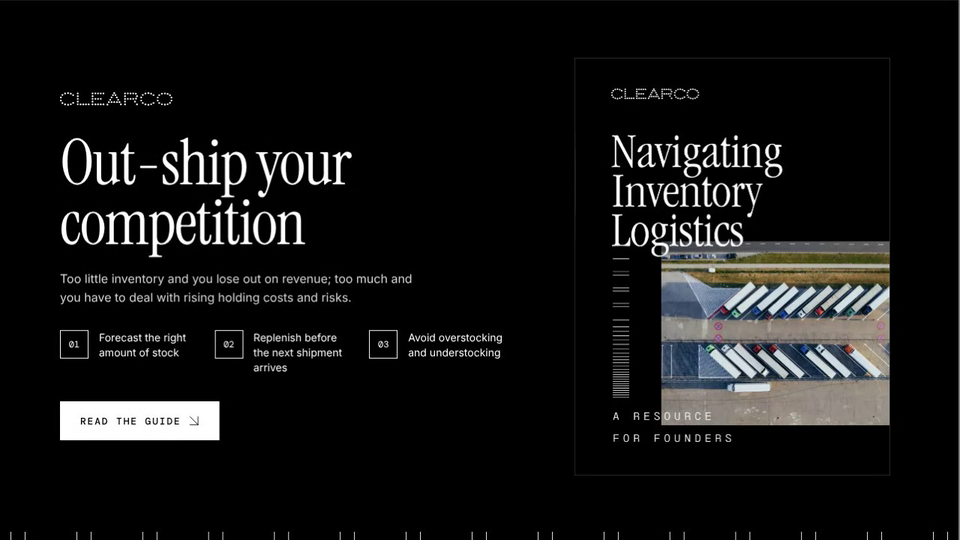
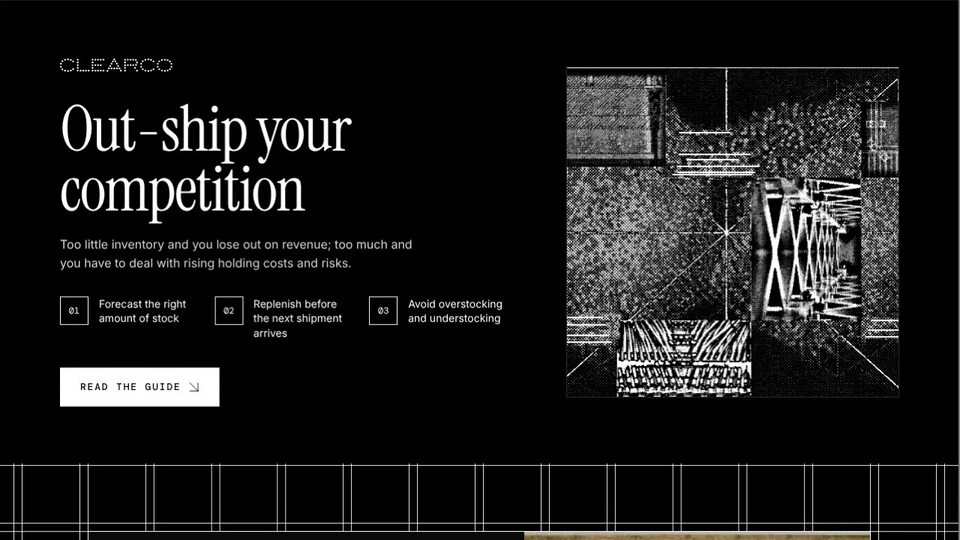
Clearco Logistics Guide: B/W hero visual with animated lines, snapped thin grids, chapter 3 + footer + spacing updates
- Hero: black and white halftone visual replaces the cover, with parallel white lines animating where marked
- Chapter headings without numerals
- Statement grid: thinner bands, lines cross through each other, card snapped to the grid, smaller squares, none in the top row
- Banner: horizontal lines only, thinner
- Chapter 3: tip label and text on the right, identical lines moving three at a time up then down
- What's inside: more top and bottom padding
- Footer: text Clearco, all white text, checkmarks aligned to the first line
- Stat caption breaks after 'entering'; re-record clip, update tile alt

Claude-Session: https://claude.ai/code/session_01AHeBdwjGFXBCupAH8deQwB

diff --git a/clearco-logistics-guide/index.html b/clearco-logistics-guide/index.html
@@ -54,16 +54,25 @@ section{padding-block:clamp(18px,2.5vw,32px)}
 .points{list-style:none;padding:0;display:grid;grid-template-columns:repeat(3,1fr);gap:20px;margin:0 0 36px}
 .points li{display:flex;gap:14px;align-items:flex-start;font-size:14px;line-height:1.4}
 .points i{flex:none;width:38px;height:38px;border:1px solid #fff;display:grid;place-items:center;font:400 12px/1 var(--mono);font-style:normal}
-.hero .cover{width:min(420px,100%);margin:0 auto;box-shadow:0 0 0 1px #2a2a2a}
+.vis{position:relative;width:min(520px,100%);margin:0 auto;box-shadow:0 0 0 1px #2a2a2a}
+.vis img{width:100%;height:auto;display:block}
+/* the parallel lines: each slides or breathes in length, one after another */
+.vl{position:absolute;height:2px;margin-top:-1px;background:#fff;animation:vl 6s ease-in-out infinite alternate}
+.vl.a{transform-origin:50% 50%;animation-name:vla}
+.vl.b{transform-origin:0 50%}
+.vl.c{transform-origin:100% 50%}
+@keyframes vl{from{transform:scaleX(.5)}to{transform:scaleX(1)}}
+@keyframes vla{from{transform:translateX(-9%) scaleX(.78)}to{transform:translateX(9%) scaleX(1)}}
+@media (prefers-reduced-motion:reduce){.vl{animation:none}}
 @media (max-width:900px){.points{grid-template-columns:1fr}}
-@media (max-width:820px){.hero .wrap{grid-template-columns:1fr}.hero .cover{width:min(320px,80%)}}
+@media (max-width:820px){.hero .wrap{grid-template-columns:1fr}.vis{width:min(360px,100%)}}
 
 /* ---------- animated grid backgrounds ---------- */
 .gridsec{position:relative;background:#000;overflow:hidden}
 .gridsec>.wrap{position:relative;z-index:1}
 .gridbg{position:absolute;inset:0;width:100%;height:100%;display:block;z-index:0}
 #stmt{padding-block:clamp(48px,7vw,96px)}
-#stmt .statement{outline:1px solid #fff}
+#stmt .statement{outline:1px solid #fff;outline-offset:-1px}
 
 /* ---------- statement card (the 7shifts quote card) ---------- */
 .statement{display:grid;grid-template-columns:1.15fr 1fr;gap:clamp(24px,4vw,56px);align-items:center;padding:0;overflow:hidden}
@@ -118,21 +127,22 @@ section{padding-block:clamp(18px,2.5vw,32px)}
 
 /* tips */
 .tip{display:grid;grid-template-columns:1fr 1fr;gap:clamp(24px,5vw,72px)}
-.tip .lab{position:relative;padding-top:34px}
-.tip .lab .mono{color:var(--mute)}
-.tip .body{padding:26px 0 30px;border-bottom:1px solid var(--line)}
+.tip .lab{position:relative}
+.tip .body .tl{display:block;color:var(--mute);margin-bottom:14px}
+.tip .body{padding:30px 0 30px;border-bottom:1px solid var(--line)}
 .tip:first-child .body{border-top:1px solid #000}
 .tip .body h3{font:400 clamp(22px,2.4vw,30px)/1.1 var(--serif);margin-bottom:12px}
 .tip .body p{max-width:var(--measure);margin-bottom:1em;color:#2a2a28}
 .tip .body p:last-child{margin-bottom:0}
-/* a very quiet stack of lines in the empty left column: each line only breathes in length a little */
-.lines{position:absolute;left:0;top:76px;bottom:30px;width:200px}
-.lines i{position:absolute;left:0;height:1px;background:#000;opacity:.5;transform-origin:left;animation:ln 9s ease-in-out infinite alternate}
-@keyframes ln{from{transform:scaleX(.82);opacity:.32}to{transform:scaleX(1);opacity:.55}}
+/* the left column: a stack of identical lines; three at a time rise and settle back, one group after another */
+.lines{position:absolute;left:0;top:34px;bottom:34px;width:200px}
+.lines i{position:absolute;left:0;width:200px;height:1px;background:#000;opacity:.5;animation:updown 8s ease-in-out infinite;animation-delay:calc(var(--g) * .9s)}
+@keyframes updown{0%,46%,100%{transform:translateY(0)}20%{transform:translateY(-12px)}}
 @media (prefers-reduced-motion:reduce){.lines i{animation:none}}
-@media (max-width:820px){.tip{grid-template-columns:1fr;gap:0}.tip .lab{padding-top:22px}.lines{display:none}.tip:first-child .body{border-top:0}.tips{border-top:1px solid #000}}
+@media (max-width:820px){.tip{grid-template-columns:1fr;gap:0}.lines{display:none}.tip:first-child .body{border-top:0}.tips{border-top:1px solid #000}}
 
 /* what's inside */
+#inside{padding-block:clamp(64px,9vw,128px)}
 .insidegrid{display:grid;grid-template-columns:repeat(5,1fr);gap:12px;align-items:stretch}
 .ih{grid-column:1/3;padding-right:clamp(12px,3vw,40px)}
 .ih h2{font:400 clamp(34px,4.2vw,56px)/1 var(--serif);letter-spacing:-.015em;margin-top:14px}
@@ -149,18 +159,17 @@ section{padding-block:clamp(18px,2.5vw,32px)}
 /* every 40 seconds: a quiet field of bars */
 .stat{background:#000;color:#fff;overflow:hidden;padding:clamp(48px,7vw,96px) 0;text-align:center;border-top:1px solid #1c1c1c}
 .stat canvas{display:block;width:100%;height:clamp(180px,22vw,280px)}
+@media (max-width:640px){.stat .cap .brk{display:none}}
 .stat .cap{font:400 clamp(28px,3.8vw,50px)/1.08 var(--serif);letter-spacing:-.01em;max-width:18em;margin:clamp(28px,4vw,48px) auto 32px}
 
 /* footer */
 footer{background:#000;color:#fff;padding:clamp(40px,6vw,80px) 0 40px;border-top:1px solid #1c1c1c}
 footer .panel{display:grid;grid-template-columns:1.25fr .75fr;gap:clamp(28px,5vw,72px);align-items:center;border:1px solid #3a3a38;background:#050505;padding:clamp(28px,5vw,64px)}
 footer h2{font:400 clamp(34px,4.6vw,62px)/1.04 var(--serif);letter-spacing:-.015em;margin-bottom:clamp(28px,4vw,44px)}
-footer h2 span{color:#9d9c97}
-footer h2 .logo{display:inline-block;width:3.3em;height:auto;vertical-align:-.02em;margin:0 0 0 .1em}
 footer .checks{list-style:none;padding:0;display:grid;gap:22px}
-footer .checks li{display:flex;gap:14px;align-items:center;font-size:18px;line-height:1.3}
-footer .checks svg{flex:none}
-footer .sign{margin-top:28px;color:#9d9c97;font-size:14px}
+footer .checks li{display:flex;gap:14px;align-items:flex-start;font-size:18px;line-height:1.3}
+footer .checks svg{flex:none;margin-top:3px}
+footer .sign{margin-top:28px;color:#fff;font-size:14px}
 @media (max-width:820px){footer .panel{grid-template-columns:1fr}}
 @media (prefers-reduced-motion:reduce){html{scroll-behavior:auto}.bar .fill{transition:none}}
 </style>
@@ -181,7 +190,7 @@ footer .sign{margin-top:28px;color:#9d9c97;font-size:14px}
     </ul>
     <a class="btn light" href="https://www.clear.co/blog/navigating-inventory-logistics-a-resource-for-founders">Read the guide <svg class="arr" viewBox="0 0 24 24" width="14" height="14" fill="none" stroke="currentColor" stroke-width="1.5" stroke-linecap="square" aria-hidden="true"><path d="M3 3 21 21M21 3v18M3 21h18"/></svg></a>
     </div>
-    <img class="cover" src="cover.webp" width="816" height="1080" alt="The guide cover: Navigating Inventory Logistics, a resource for founders, white serif type over an aerial photo of trucks in a depot, on black">
+    <div class="vis"><img src="hero-visual.png" width="1036" height="1028" alt="Black and white halftone collage of warehouse and cable photography crossed by thin radiating lines, with parallel white lines that slide in and out"><i class="vl a" style="left:33.01%;width:18.15%;top:19.65%;animation-duration:5.6s;animation-delay:-0.0s"></i><i class="vl a" style="left:32.24%;width:24.13%;top:26.26%;animation-duration:6.4s;animation-delay:-0.9s"></i><i class="vl a" style="left:34.94%;width:17.18%;top:28.02%;animation-duration:7.2s;animation-delay:-1.8s"></i><i class="vl a" style="left:31.08%;width:25.10%;top:29.96%;animation-duration:5.9s;animation-delay:-2.7s"></i><i class="vl a" style="left:31.27%;width:23.75%;top:31.71%;animation-duration:6.8s;animation-delay:-3.6s"></i><i class="vl a" style="left:29.54%;width:24.13%;top:32.49%;animation-duration:7.6s;animation-delay:-4.5s"></i><i class="vl b" style="left:0.00%;width:15.83%;top:75.88%;animation-duration:5.6s;animation-delay:-0.0s"></i><i class="vl b" style="left:0.00%;width:15.44%;top:78.21%;animation-duration:6.4s;animation-delay:-0.9s"></i><i class="vl b" style="left:0.00%;width:15.44%;top:81.32%;animation-duration:7.2s;animation-delay:-1.8s"></i><i class="vl b" style="left:0.00%;width:13.71%;top:83.46%;animation-duration:5.9s;animation-delay:-2.7s"></i><i class="vl c" style="left:88.03%;width:11.97%;top:76.85%;animation-duration:5.6s;animation-delay:-0.0s"></i><i class="vl c" style="left:87.84%;width:12.16%;top:79.77%;animation-duration:6.4s;animation-delay:-0.9s"></i><i class="vl c" style="left:87.84%;width:12.16%;top:81.71%;animation-duration:7.2s;animation-delay:-1.8s"></i></div>
   </div>
 </header>
 
@@ -204,7 +213,7 @@ footer .sign{margin-top:28px;color:#9d9c97;font-size:14px}
     <div class="box chap">
       <div class="txt">
         <p class="mono n">Chapter one</p>
-        <h2>1. It all begins with stock forecasting.</h2>
+        <h2>It all begins with stock forecasting.</h2>
         <h3>One word: forecasting</h3>
         <p>It probably goes without saying that regardless of whether you run an eCommerce business or a brick and mortar store, inventory forecasting can make or break your profits. Too little inventory and you lose out on revenue; too much and you have to deal with rising holding costs and risks, unable to use that capital for other crucial areas of your business. So how do you straddle that fine line that optimizes inventory while managing cash flow?</p>
         <p>In the context of inventory management, the goal is to strike that not-too-hot, not-too-cold Goldilocks zone. Stock forecasting is all about holding just the right amount of inventory so that you’re not overstocked nor are you understocked. For most medium-sized businesses, you’ll have to begin by establishing whether your inventory turnover is within industry benchmarks.</p>
@@ -224,7 +233,7 @@ footer .sign{margin-top:28px;color:#9d9c97;font-size:14px}
     <div class="box chap">
       <div class="txt">
         <p class="mono n">Chapter two</p>
-        <h2>2. Replenishment, replenishment, replenishment.</h2>
+        <h2>Replenishment, replenishment, replenishment.</h2>
         <h3>Let’s say…</h3>
         <p>Formulas are good and well — but perhaps the best way to demonstrate them in practice is by using an example. Imagine you own a mid-sized eCommerce business in Canada and you sell watches manufactured in China.</p>
         <p>Let’s start by totalling the lead time: a couple of days to pick and pack the watches, four days to ship the goods to the port, 30 days for the watches to ship to Canada, another week in customs, then five days to travel to your warehouse.</p>
@@ -255,19 +264,21 @@ footer .sign{margin-top:28px;color:#9d9c97;font-size:14px}
   <div class="wrap">
     <div class="box c3">
       <p class="mono n" style="color:var(--mute)">Chapter three</p>
-      <h2>3. How to avoid overstocking and understocking.</h2>
+      <h2>How to avoid overstocking and understocking.</h2>
       <div class="tips">
         <div class="tip">
-          <div class="lab"><span class="mono">Tip 1</span><div class="lines" aria-hidden="true"><i style="top:0.0%;width:200px;animation-duration:9s;animation-delay:-0.0s"></i><i style="top:18.2%;width:168px;animation-duration:11s;animation-delay:-1.7s"></i><i style="top:35.0%;width:200px;animation-duration:8s;animation-delay:-3.4s"></i><i style="top:50.6%;width:120px;animation-duration:12s;animation-delay:-5.1s"></i><i style="top:64.6%;width:184px;animation-duration:10s;animation-delay:-6.8s"></i><i style="top:77.0%;width:150px;animation-duration:9s;animation-delay:-8.5s"></i><i style="top:87.5%;width:200px;animation-duration:11s;animation-delay:-10.2s"></i><i style="top:95.6%;width:136px;animation-duration:8s;animation-delay:-3.9s"></i><i style="top:100.0%;width:176px;animation-duration:12s;animation-delay:-1.6s"></i></div></div>
+          <div class="lab"><div class="lines" aria-hidden="true"><i style="top:0.0%;--g:0"></i><i style="top:18.2%;--g:0"></i><i style="top:35.0%;--g:0"></i><i style="top:50.6%;--g:1"></i><i style="top:64.6%;--g:1"></i><i style="top:77.0%;--g:1"></i><i style="top:87.5%;--g:2"></i><i style="top:95.6%;--g:2"></i><i style="top:100.0%;--g:2"></i></div></div>
           <div class="body">
+            <span class="mono tl">Tip 1</span>
             <h3>Reduce any inventory that’s no longer relevant to the market</h3>
             <p>The best practice when it comes to making sure your stock remains relevant is to use data to predict when an item is about to become obsolete in a market. This can include taking into account when a product is going to be replaced or overtaken by a new or competing version.</p>
             <p>A product’s life cycle needs to be monitored regularly — monthly if possible — to keep track of fluctuations in demand. Once you have a demand pattern mapped out, you’ll be less likely to overstock on an item that’s about to be removed from the shelf.</p>
           </div>
         </div>
         <div class="tip">
-          <div class="lab"><span class="mono">Tip 2</span><div class="lines" aria-hidden="true"><i style="top:0.0%;width:150px;animation-duration:10s;animation-delay:-0.0s"></i><i style="top:18.2%;width:200px;animation-duration:8s;animation-delay:-1.7s"></i><i style="top:35.0%;width:128px;animation-duration:12s;animation-delay:-3.4s"></i><i style="top:50.6%;width:190px;animation-duration:9s;animation-delay:-5.1s"></i><i style="top:64.6%;width:160px;animation-duration:11s;animation-delay:-6.8s"></i><i style="top:77.0%;width:200px;animation-duration:8s;animation-delay:-0.5s"></i><i style="top:87.5%;width:112px;animation-duration:10s;animation-delay:-0.2s"></i><i style="top:95.6%;width:180px;animation-duration:12s;animation-delay:-11.9s"></i><i style="top:100.0%;width:200px;animation-duration:9s;animation-delay:-4.6s"></i></div></div>
+          <div class="lab"><div class="lines" aria-hidden="true"><i style="top:0.0%;--g:0"></i><i style="top:18.2%;--g:0"></i><i style="top:35.0%;--g:0"></i><i style="top:50.6%;--g:1"></i><i style="top:64.6%;--g:1"></i><i style="top:77.0%;--g:1"></i><i style="top:87.5%;--g:2"></i><i style="top:95.6%;--g:2"></i><i style="top:100.0%;--g:2"></i></div></div>
           <div class="body">
+            <span class="mono tl">Tip 2</span>
             <h3>Offload overstocked items</h3>
             <p>One thing you can do if you find yourself with plenty of stock for an item is to reduce the price, thus offloading it. While you’ll experience a reduction in profits in the short term, the long term benefit of unclogging your warehouse facility means an overall reduction in carrying costs, while also freeing up space to store products that are more profitable.</p>
           </div>
@@ -293,7 +304,7 @@ footer .sign{margin-top:28px;color:#9d9c97;font-size:14px}
 <section class="stat" id="stat">
   <canvas class="bars" aria-hidden="true"></canvas>
   <div class="wrap">
-    <p class="cap">Every 40 seconds, products are entering the logistics system.</p>
+    <p class="cap">Every 40 seconds, products are entering<br class="brk"> the logistics system.</p>
     <a class="btn light" href="https://www.clear.co/blog/navigating-inventory-logistics-a-resource-for-founders">Track with Clearco <svg class="arr" viewBox="0 0 24 24" width="14" height="14" fill="none" stroke="currentColor" stroke-width="1.5" stroke-linecap="square" aria-hidden="true"><path d="M3 3 21 21M21 3v18M3 21h18"/></svg></a>
   </div>
 </section>
@@ -303,7 +314,7 @@ footer .sign{margin-top:28px;color:#9d9c97;font-size:14px}
   <div class="wrap">
     <div class="panel">
       <div class="l">
-        <h2><span>It pays to stay<br>in stock with</span> <svg class="logo" xmlns="http://www.w3.org/2000/svg" viewBox="-489.3 -58.1 978.8 116.8" role="img" aria-label="Clearco"><circle cx="-481.7" cy="-13.1" r="7.63"/><circle cx="-481.7" cy="14.1" r="7.63"/><circle cx="-468.7" cy="-34.5" r="7.63"/><circle cx="-468.7" cy="36.5" r="7.63"/><circle cx="-445.2" cy="-47.1" r="7.63"/><circle cx="-445.2" cy="47.6" r="7.63"/><circle cx="-419.1" cy="-50.5" r="7.63"/><circle cx="-419.1" cy="51.0" r="7.63"/><circle cx="-395.3" cy="-45.6" r="7.63"/><circle cx="-395.3" cy="46.7" r="7.63"/><circle cx="-374.7" cy="-32.9" r="7.63"/><circle cx="-374.7" cy="34.3" r="7.63"/><circle cx="-334.8" cy="-47.6" r="7.63"/><circle cx="-334.8" cy="-23.8" r="7.63"/><circle cx="-334.8" cy="-0.4" r="7.63"/><circle cx="-334.8" cy="23.7" r="7.63"/><circle cx="-334.8" cy="46.7" r="7.63"/><circle cx="-310.3" cy="47.6" r="7.63"/><circle cx="-286.6" cy="47.6" r="7.63"/><circle cx="-263.5" cy="47.6" r="7.63"/><circle cx="-239.7" cy="47.6" r="7.63"/><circle cx="-206.0" cy="-47.6" r="7.63"/><circle cx="-206.0" cy="-23.8" r="7.63"/><circle cx="-206.0" cy="-0.4" r="7.63"/><circle cx="-206.0" cy="23.7" r="7.63"/><circle cx="-206.0" cy="47.6" r="7.63"/><circle cx="-181.3" cy="-47.6" r="7.63"/><circle cx="-181.3" cy="-0.4" r="7.63"/><circle cx="-181.3" cy="47.6" r="7.63"/><circle cx="-158.0" cy="-47.6" r="7.63"/><circle cx="-158.0" cy="-0.4" r="7.63"/><circle cx="-158.0" cy="47.6" r="7.63"/><circle cx="-134.5" cy="-47.6" r="7.63"/><circle cx="-134.5" cy="-0.4" r="7.63"/><circle cx="-134.5" cy="47.6" r="7.63"/><circle cx="-111.2" cy="-47.6" r="7.63"/><circle cx="-111.2" cy="47.6" r="7.63"/><circle cx="-76.2" cy="49.9" r="7.63"/><circle cx="-63.7" cy="28.1" r="7.63"/><circle cx="-52.1" cy="7.7" r="7.63"/><circle cx="-40.1" cy="-13.1" r="7.63"/><circle cx="-40.1" cy="28.1" r="7.63"/><circle cx="-28.5" cy="-32.9" r="7.63"/><circle cx="-17.0" cy="-50.5" r="7.63"/><circle cx="-17.0" cy="28.1" r="7.63"/><circle cx="-6.2" cy="-32.9" r="7.63"/><circle cx="5.2" cy="-13.1" r="7.63"/><circle cx="6.8" cy="28.1" r="7.63"/><circle cx="16.9" cy="7.7" r="7.63"/><circle cx="28.7" cy="28.1" r="7.63"/><circle cx="40.6" cy="47.6" r="7.63"/><circle cx="76.9" cy="-47.1" r="7.63"/><circle cx="76.9" cy="-23.8" r="7.63"/><circle cx="76.9" cy="0.4" r="7.63"/><circle cx="76.9" cy="23.7" r="7.63"/><circle cx="76.9" cy="47.6" r="7.63"/><circle cx="101.3" cy="-47.6" r="7.63"/><circle cx="101.3" cy="-0.4" r="7.63"/><circle cx="124.8" cy="-47.6" r="7.63"/><circle cx="124.8" cy="-0.4" r="7.63"/><circle cx="148.2" cy="-47.6" r="7.63"/><circle cx="148.2" cy="-0.4" r="7.63"/><circle cx="163.6" cy="23.7" r="7.63"/><circle cx="171.0" cy="-45.6" r="7.63"/><circle cx="172.6" cy="-2.5" r="7.63"/><circle cx="181.5" cy="-23.8" r="7.63"/><circle cx="181.5" cy="47.6" r="7.63"/><circle cx="218.0" cy="-13.1" r="7.63"/><circle cx="218.0" cy="14.1" r="7.63"/><circle cx="231.4" cy="-34.5" r="7.63"/><circle cx="231.4" cy="35.4" r="7.63"/><circle cx="254.8" cy="-47.1" r="7.63"/><circle cx="254.8" cy="47.6" r="7.63"/><circle cx="280.8" cy="-50.5" r="7.63"/><circle cx="280.8" cy="51.0" r="7.63"/><circle cx="304.4" cy="-45.6" r="7.63"/><circle cx="304.4" cy="46.7" r="7.63"/><circle cx="325.4" cy="-32.9" r="7.63"/><circle cx="325.4" cy="35.4" r="7.63"/><circle cx="362.0" cy="-11.6" r="7.63"/><circle cx="362.0" cy="14.1" r="7.63"/><circle cx="375.2" cy="-32.9" r="7.63"/><circle cx="375.2" cy="35.4" r="7.63"/><circle cx="398.8" cy="-45.6" r="7.63"/><circle cx="398.8" cy="46.7" r="7.63"/><circle cx="424.6" cy="-47.6" r="7.63"/><circle cx="424.6" cy="49.9" r="7.63"/><circle cx="448.3" cy="-44.0" r="7.63"/><circle cx="448.3" cy="46.7" r="7.63"/><circle cx="469.0" cy="-31.9" r="7.63"/><circle cx="469.0" cy="34.3" r="7.63"/><circle cx="481.8" cy="-11.6" r="7.63"/><circle cx="481.8" cy="14.1" r="7.63"/></svg></h2>
+        <h2>It pays to stay<br>in stock with Clearco</h2>
         <a class="btn light" href="https://www.clear.co/blog/navigating-inventory-logistics-a-resource-for-founders">Read the guide <svg class="arr" viewBox="0 0 24 24" width="14" height="14" fill="none" stroke="currentColor" stroke-width="1.5" stroke-linecap="square" aria-hidden="true"><path d="M3 3 21 21M21 3v18M3 21h18"/></svg></a>
       </div>
       <ul class="checks">
@@ -333,11 +344,12 @@ footer .sign{margin-top:28px;color:#9d9c97;font-size:14px}
   };
   var clamp01 = function(v){ return Math.min(1, Math.max(0, v)); };
 
-  /* A repeating grid of black bands with white outlines. Crosspoints are where a band crosses a band.
-     mode "squares": white squares slightly smaller than the band sit on crosspoints; about 30% slide to another
-       crosspoint (1 or 2 points along a band) at any time, started at random so they stay staggered.
-     mode "lines": the same grid, but each mover is a stack of horizontal lines that floats up or down 1 or 2 points,
-       its lines setting off one after another. Crosspoints near the text panel are never used. */
+  /* A repeating grid of thin black bands with white edge lines. Crosspoints are where a band crosses a band.
+     mode "squares": the edge lines run straight through each other (they overlap where they cross). The dark card is snapped to the
+       grid, its width and height are whole cells, so its edges sit on cell lines. Small white squares sit on crosspoints; about 30%
+       slide to another crosspoint (1 or 2 points along a band) at any time, started at random so they stay staggered.
+     mode "lines": horizontal lines only. Stacks of fine lines float up and down 1 or 2 rows, their lines setting off one after
+       another. Crosspoints near the text panel are never used and the panel sits in a clear space. */
   function Grid(sec){
     var mode = sec.dataset.grid, blockSel = sec.dataset.block;
     var cv = document.createElement('canvas');
@@ -345,14 +357,16 @@ footer .sign{margin-top:28px;color:#9d9c97;font-size:14px}
     sec.insertBefore(cv, sec.firstChild);
     var ctx = cv.getContext('2d'), bg = document.createElement('canvas');
     var W = 0, H = 0, dpr = 1, P = 0, B = 0, S = 0, SW = 0, SH = 0, NC = 0, NR = 0, OX = 0, OY = 0;
-    var items = [], occ = {}, blocked = [], visible = false, raf = 0, last = 0;
-    var N_LINES = 14;
+    var items = [], occ = {}, blocked = [], visible = false, raf = 0, last = 0, busy = false;
+    var N_LINES = 12;
 
     function key(i, j){ return i + ',' + j; }
     function px(i){ return OX + i * P; }
     function py(j){ return OY + j * P; }
+    function mod(a, n){ return ((a % n) + n) % n; }
     function isBlocked(i, j){
-      var x = px(i), y = py(j), ex = B, ey = mode === 'lines' ? SH / 2 + 24 : B;
+      if (mode === 'squares' && j === 0) return true;     // keep the top row of crosspoints free of squares
+      var x = px(i), y = py(j), ex = mode === 'lines' ? SW / 2 + 24 : B, ey = mode === 'lines' ? SH / 2 + 24 : B;
       for (var k = 0; k < blocked.length; k++) {
         var b = blocked[k];
         if (x > b.x - ex && x < b.x + b.w + ex && y > b.y - ey && y < b.y + b.h + ey) return true;
@@ -360,44 +374,56 @@ footer .sign{margin-top:28px;color:#9d9c97;font-size:14px}
       return false;
     }
     function layout(){
+      if (busy) return; busy = true;
+      var small = sec.getBoundingClientRect().width < 640;
+      if (mode === 'lines') { P = small ? 72 : 96; B = small ? 10 : 12; SW = small ? 18 : 24; SH = Math.round(P * .75); }
+      else { P = small ? 64 : 88; B = small ? 8 : 10; S = small ? 5 : 6; }
+      var el = blockSel && sec.querySelector(blockSel);
+      if (mode === 'squares' && el) {                       // snap the card to the grid: whole cells wide and tall
+        el.style.width = ''; el.style.minHeight = '';
+        var n = Math.max(2, Math.floor((el.parentNode.clientWidth + B) / P));
+        el.style.width = (n * P - B) + 'px'; el.style.marginLeft = el.style.marginRight = 'auto';
+        var m = Math.max(2, Math.ceil((el.getBoundingClientRect().height + B) / P));
+        el.style.minHeight = (m * P - B) + 'px';
+      }
       var r = sec.getBoundingClientRect();
-      var w = Math.round(r.width), h = Math.round(r.height);
-      if (!w || !h) return;
-      W = w; H = h; dpr = Math.min(2, window.devicePixelRatio || 1);
+      W = Math.round(r.width); H = Math.round(r.height);
+      if (!W || !H) { busy = false; return; }
+      dpr = Math.min(2, window.devicePixelRatio || 1);
       cv.width = bg.width = Math.round(W * dpr); cv.height = bg.height = Math.round(H * dpr);
-      var small = W < 640;
-      if (mode === 'lines') { P = small ? 96 : 128; B = small ? 24 : 32; SW = B - 6; SH = Math.round(P * .75); }
-      else { P = small ? 64 : 88; B = small ? 14 : 18; S = B - 4; }
-      NC = Math.floor(W / P) + 1; NR = Math.floor(H / P) + 1;
-      OX = Math.round((W - (NC - 1) * P) / 2); OY = Math.round((H - (NR - 1) * P) / 2);
+      blocked = [];
+      if (el) { var b = el.getBoundingClientRect(); blocked.push({ x: b.left - r.left, y: b.top - r.top, w: b.width, h: b.height }); }
+      if (mode === 'squares' && blocked.length) {
+        OX = mod(blocked[0].x - B / 2, P); OY = mod(blocked[0].y - B / 2, P);
+        NC = Math.floor((W - OX) / P) + 1; NR = Math.floor((H - OY) / P) + 1;
+      } else {
+        NC = Math.floor(W / P) + 1; NR = Math.floor(H / P) + 1;
+        OX = Math.round((W - (NC - 1) * P) / 2); OY = Math.round((H - (NR - 1) * P) / 2);
+      }
 
-      /* grid: the cells between bands are stroked, so the bands read as black strips with white edges */
       var g = bg.getContext('2d');
       g.setTransform(dpr, 0, 0, dpr, 0, 0);
       g.fillStyle = '#000'; g.fillRect(0, 0, W, H);
       g.strokeStyle = '#fff'; g.lineWidth = 1; g.globalAlpha = .9;
       g.beginPath();
-      blocked = [];
-      var el = blockSel && sec.querySelector(blockSel);
-      if (el) { var b = el.getBoundingClientRect(); blocked.push({ x: b.left - r.left, y: b.top - r.top, w: b.width, h: b.height }); }
-      for (var i = -1; i <= NC; i++) for (var j = -1; j <= NR; j++) {
-        var cx = px(i) + B / 2, cy = py(j) + B / 2, cw = P - B, ch = P - B;
-        /* in the "lines" variant, leave the cells around the text panel out so the clear space is clean */
-        if (mode === 'lines' && blocked.length) {
-          var q = blocked[0], pad = 8;
-          if (cx < q.x + q.w + pad && cx + cw > q.x - pad && cy < q.y + q.h + pad && cy + ch > q.y - pad) continue;
-        }
-        g.rect(cx + .5, cy + .5, cw - 1, ch - 1);
-      }
+      function vline(x){ var xx = Math.round(x) + .5; g.moveTo(xx, 0); g.lineTo(xx, H); }
+      function hline(y){ var yy = Math.round(y) + .5; g.moveTo(0, yy); g.lineTo(W, yy); }
+      for (var i = -1; i <= NC; i++) if (mode === 'squares') { vline(px(i) - B / 2 - 1); vline(px(i) + B / 2); }
+      for (var j = -1; j <= NR; j++) { hline(py(j) - B / 2 - 1); hline(py(j) + B / 2); }
       g.stroke();
+      if (mode === 'lines' && blocked.length) {              // the text panel gets a clean space around it
+        var q = blocked[0], pad = 28; g.globalAlpha = 1; g.fillStyle = '#000';
+        g.fillRect(q.x - pad, q.y - pad, q.w + pad * 2, q.h + pad * 2);
+      }
 
       items = []; occ = {};
       var spots = [];
       for (var a = 0; a < NC; a++) for (var c = 0; c < NR; c++) if (!isBlocked(a, c)) spots.push([a, c]);
-      for (var s = spots.length - 1; s > 0; s--) { var t = Math.floor(Math.random() * (s + 1)), tmp = spots[s]; spots[s] = spots[t]; spots[t] = tmp; }
+      for (var s2 = spots.length - 1; s2 > 0; s2--) { var t = Math.floor(Math.random() * (s2 + 1)), tmp = spots[s2]; spots[s2] = spots[t]; spots[t] = tmp; }
       var count = Math.round(spots.length * (mode === 'lines' ? .28 : .4));
-      for (var n = 0; n < count; n++) { items.push({ i: spots[n][0], j: spots[n][1], mv: null }); occ[key(spots[n][0], spots[n][1])] = n; }
+      for (var k = 0; k < count; k++) { items.push({ i: spots[k][0], j: spots[k][1], mv: null }); occ[key(spots[k][0], spots[k][1])] = k; }
       draw(performance.now());
+      busy = false;
     }
 
     function startMove(now){
@@ -419,7 +445,7 @@ footer .sign{margin-top:28px;color:#9d9c97;font-size:14px}
         return;
       }
     }
-    function finish(it, idx){
+    function finish(it){
       var m = it.mv;
       delete occ[key(m.i0, m.j0)];
       m.path.forEach(function(q){ if (q[0] !== m.i1 || q[1] !== m.j1) delete occ[key(q[0], q[1])]; });
@@ -441,7 +467,7 @@ footer .sign{margin-top:28px;color:#9d9c97;font-size:14px}
           }
         }
         if (mode === 'squares') {
-          ctx.fillRect(Math.round(x - S / 2), Math.round(y - S / 2), S, S);
+          ctx.fillRect(Math.round(x - S / 2 - .5), Math.round(y - S / 2 - .5), S, S);
         } else {
           var y0 = it.mv ? py(it.mv.j0) : y, y1 = it.mv ? py(it.mv.j1) : y, span = (N_LINES - 1) * .03;
           for (var k = 0; k < N_LINES; k++) {
@@ -450,7 +476,7 @@ footer .sign{margin-top:28px;color:#9d9c97;font-size:14px}
             var order = dir > 0 ? (N_LINES - 1 - k) : k;                  // the leading line sets off first
             var pk = it.mv ? ease.sine(clamp01((p - order * .03) / (1 - span))) : 1;
             var ly = y0 + (y1 - y0) * pk + ofs;
-            ctx.fillRect(Math.round(x - SW / 2), Math.round(ly), SW, 2);
+            ctx.fillRect(Math.round(x - SW / 2), Math.round(ly), SW, 1);
           }
         }
       }
@@ -463,7 +489,7 @@ footer .sign{margin-top:28px;color:#9d9c97;font-size:14px}
       var moving = 0;
       for (var n = 0; n < items.length; n++) {
         var it = items[n];
-        if (it.mv) { if (now - it.mv.t0 >= it.mv.dur) finish(it, n); else moving++; }
+        if (it.mv) { if (now - it.mv.t0 >= it.mv.dur) finish(it); else moving++; }
       }
       var want = Math.round(items.length * .3);
       if (moving < want && Math.random() < Math.min(1, dt / 160)) startMove(now);
@@ -483,6 +509,7 @@ footer .sign{margin-top:28px;color:#9d9c97;font-size:14px}
     } else { visible = true; sync(); }
   }
   [].forEach.call(document.querySelectorAll('.gridsec'), Grid);
+
 
   /* the "every 40 seconds" section: thin bars flowing sideways, the tallest ones in white */
   function Bars(sec){
